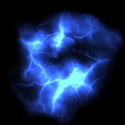
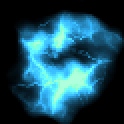
Remove electric buff, updated spark sprite

diff --git a/Content/Projectiles/MartianLightning.cs b/Content/Projectiles/MartianLightning.cs
@@ -1,6 +1,5 @@
 using System;
 using System.Collections.Generic;
-using DartGunsPlus.Content.Buffs;
 using DartGunsPlus.Content.Dusts;
 using DartGunsPlus.Content.Systems;
 using Microsoft.Xna.Framework;
@@ -145,11 +144,8 @@ public class MartianLightning : ModProjectile
     {
         target.immune[Projectile.owner] = 10;
         if (Main.rand.NextBool(4))
-        {
             Projectile.NewProjectile(Projectile.GetSource_OnHit(target), target.Center, Vector2.Zero, ModContent.ProjectileType<MartianSpark>(),
                 Projectile.damage * 2, 8, Projectile.owner);
-            target.AddBuff(ModContent.BuffType<ElectricShock>(), 120);
-        }
     }
 
     public override bool? Colliding(Rectangle projHitbox, Rectangle targetHitbox)

diff --git a/Content/Projectiles/MartianSpark.cs b/Content/Projectiles/MartianSpark.cs
@@ -33,7 +33,7 @@ public class MartianSpark : ModProjectile
         if (Projectile.timeLeft < 4)
             FadingSystem.FadeOut(Projectile, 3);
 
-        Lighting.AddLight(Projectile.Center, Color.Blue.ToVector3());
+        Lighting.AddLight(Projectile.Center, Color.SkyBlue.ToVector3());
     }
 
     public override Color? GetAlpha(Color lightColor)

diff --git a/Content/Items/Accessories/AccessoryPlayer.cs b/Content/Items/Accessories/AccessoryPlayer.cs
@@ -3,7 +3,6 @@ using System.Linq;
 using DartGunsPlus.Content.Systems;
 using Microsoft.Xna.Framework;
 using Terraria;
-using Terraria.Graphics.Renderers;
 using Terraria.ID;
 using Terraria.ModLoader;
 
